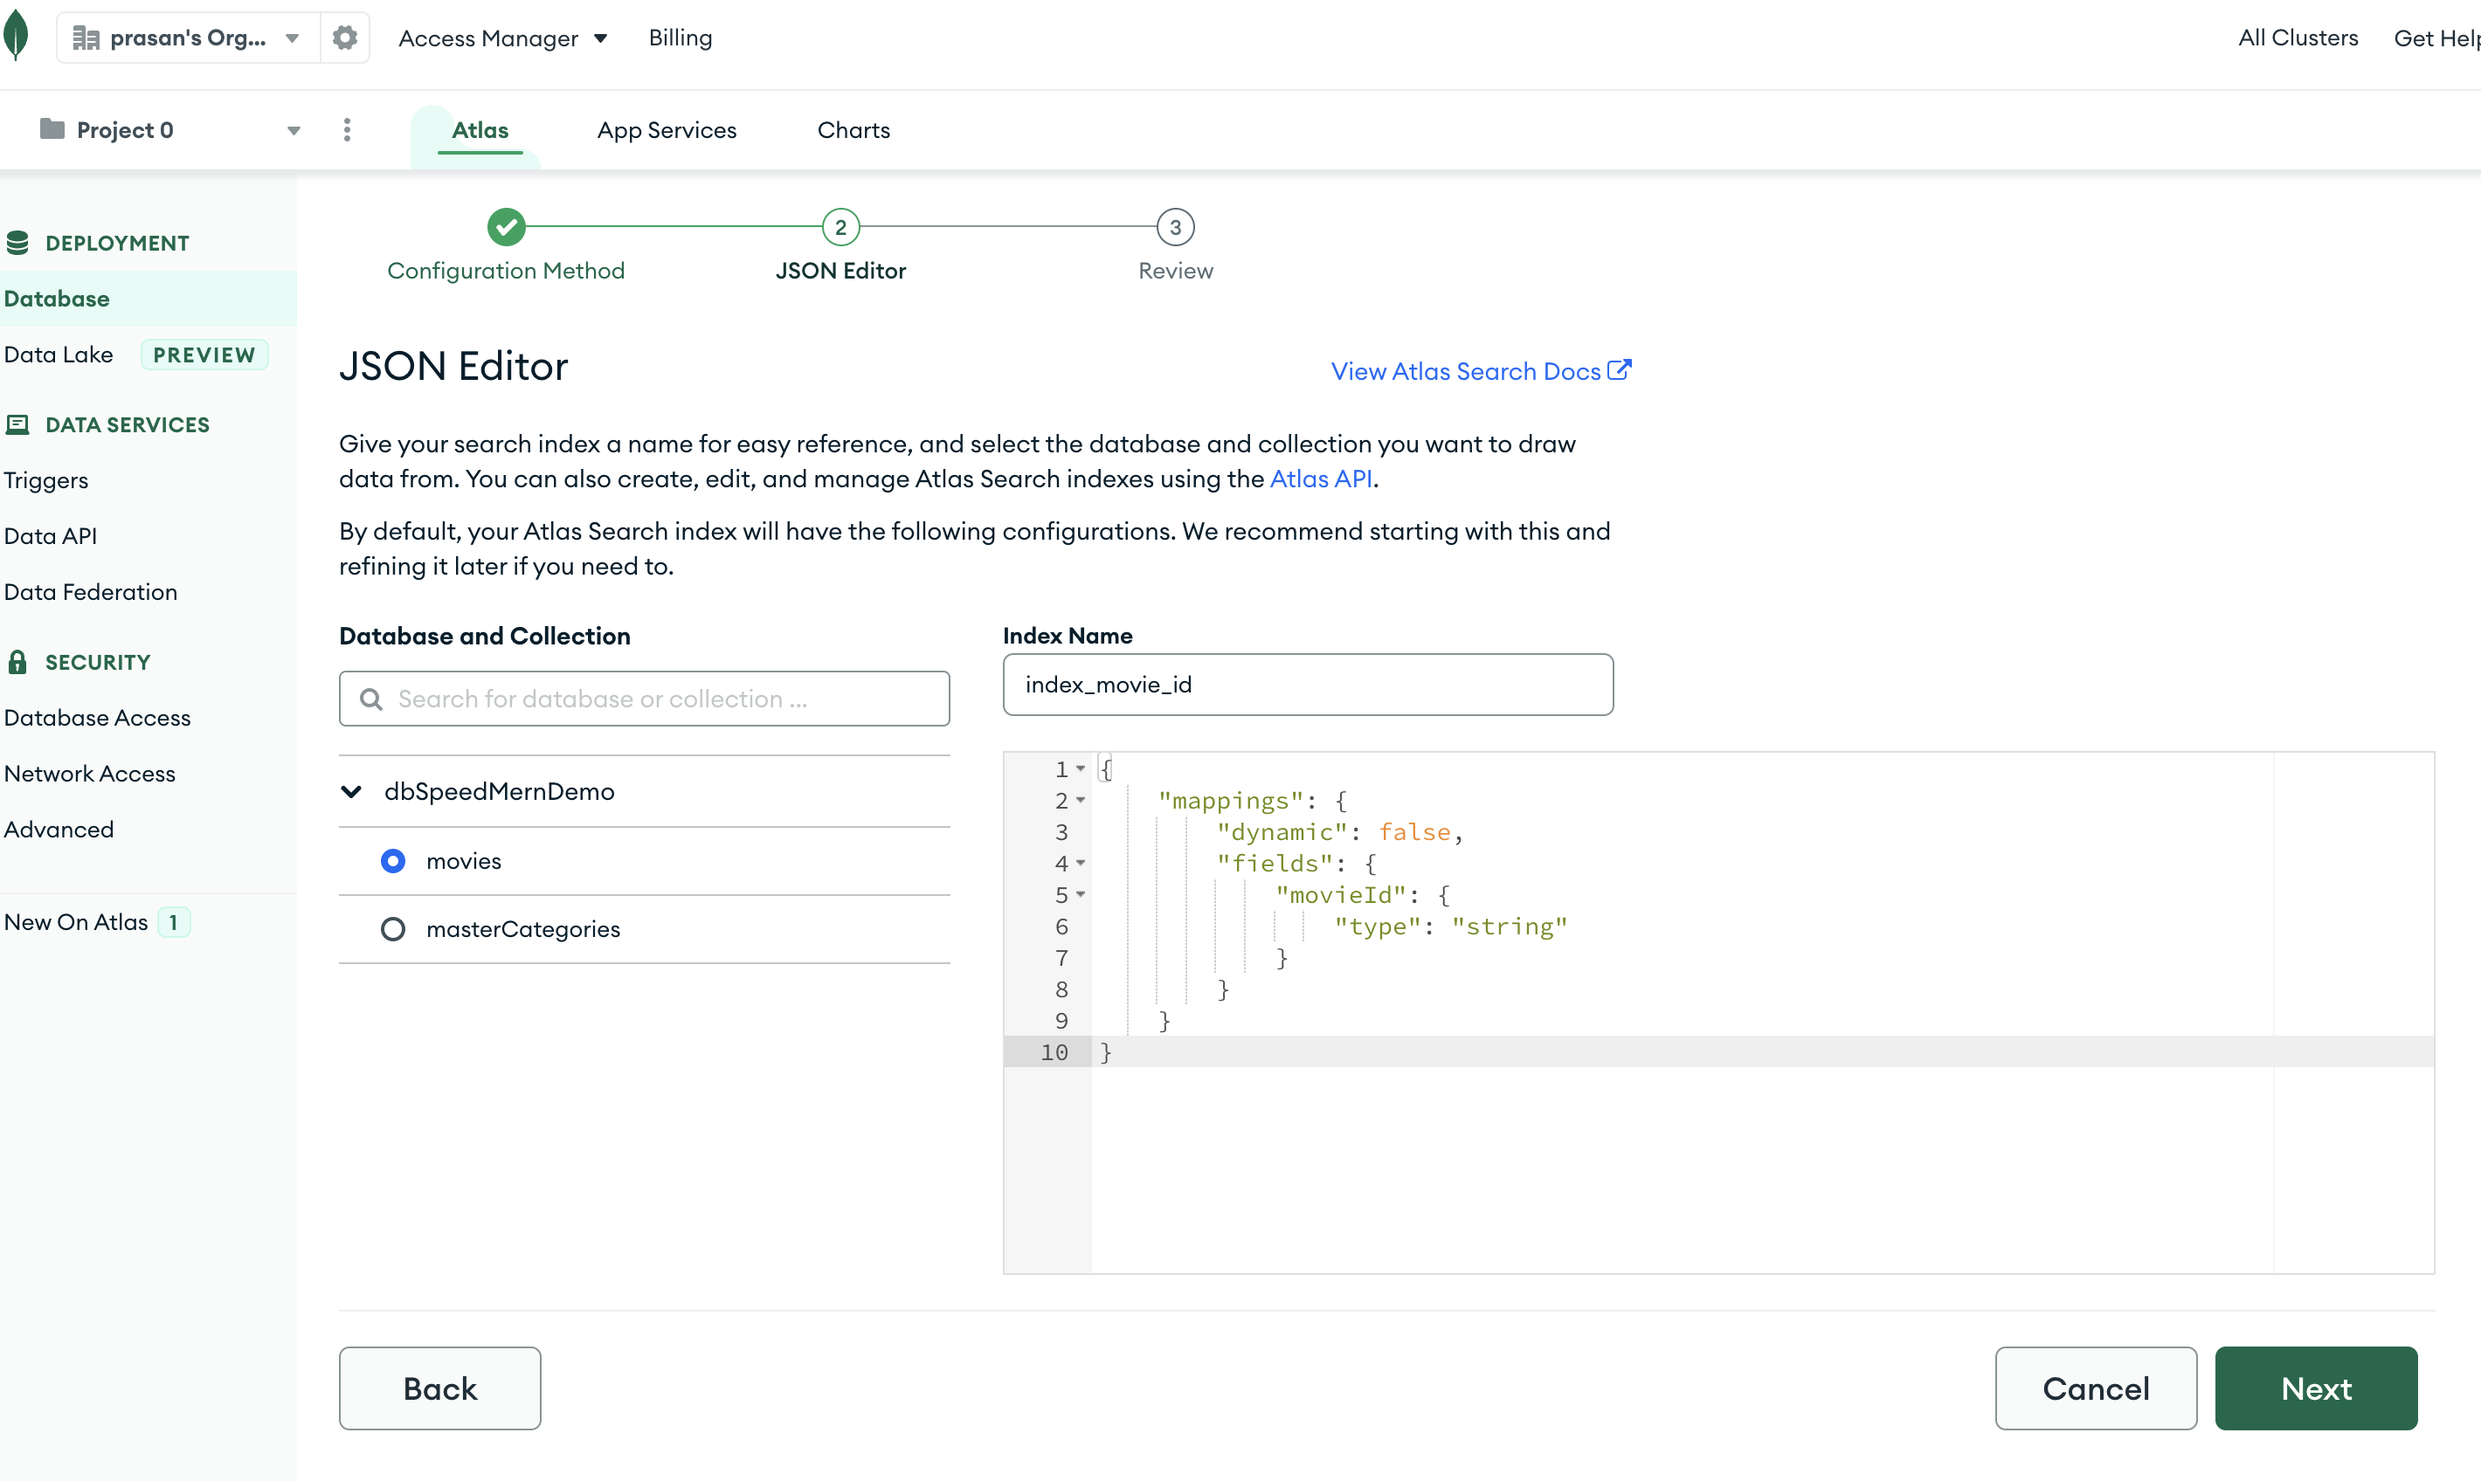
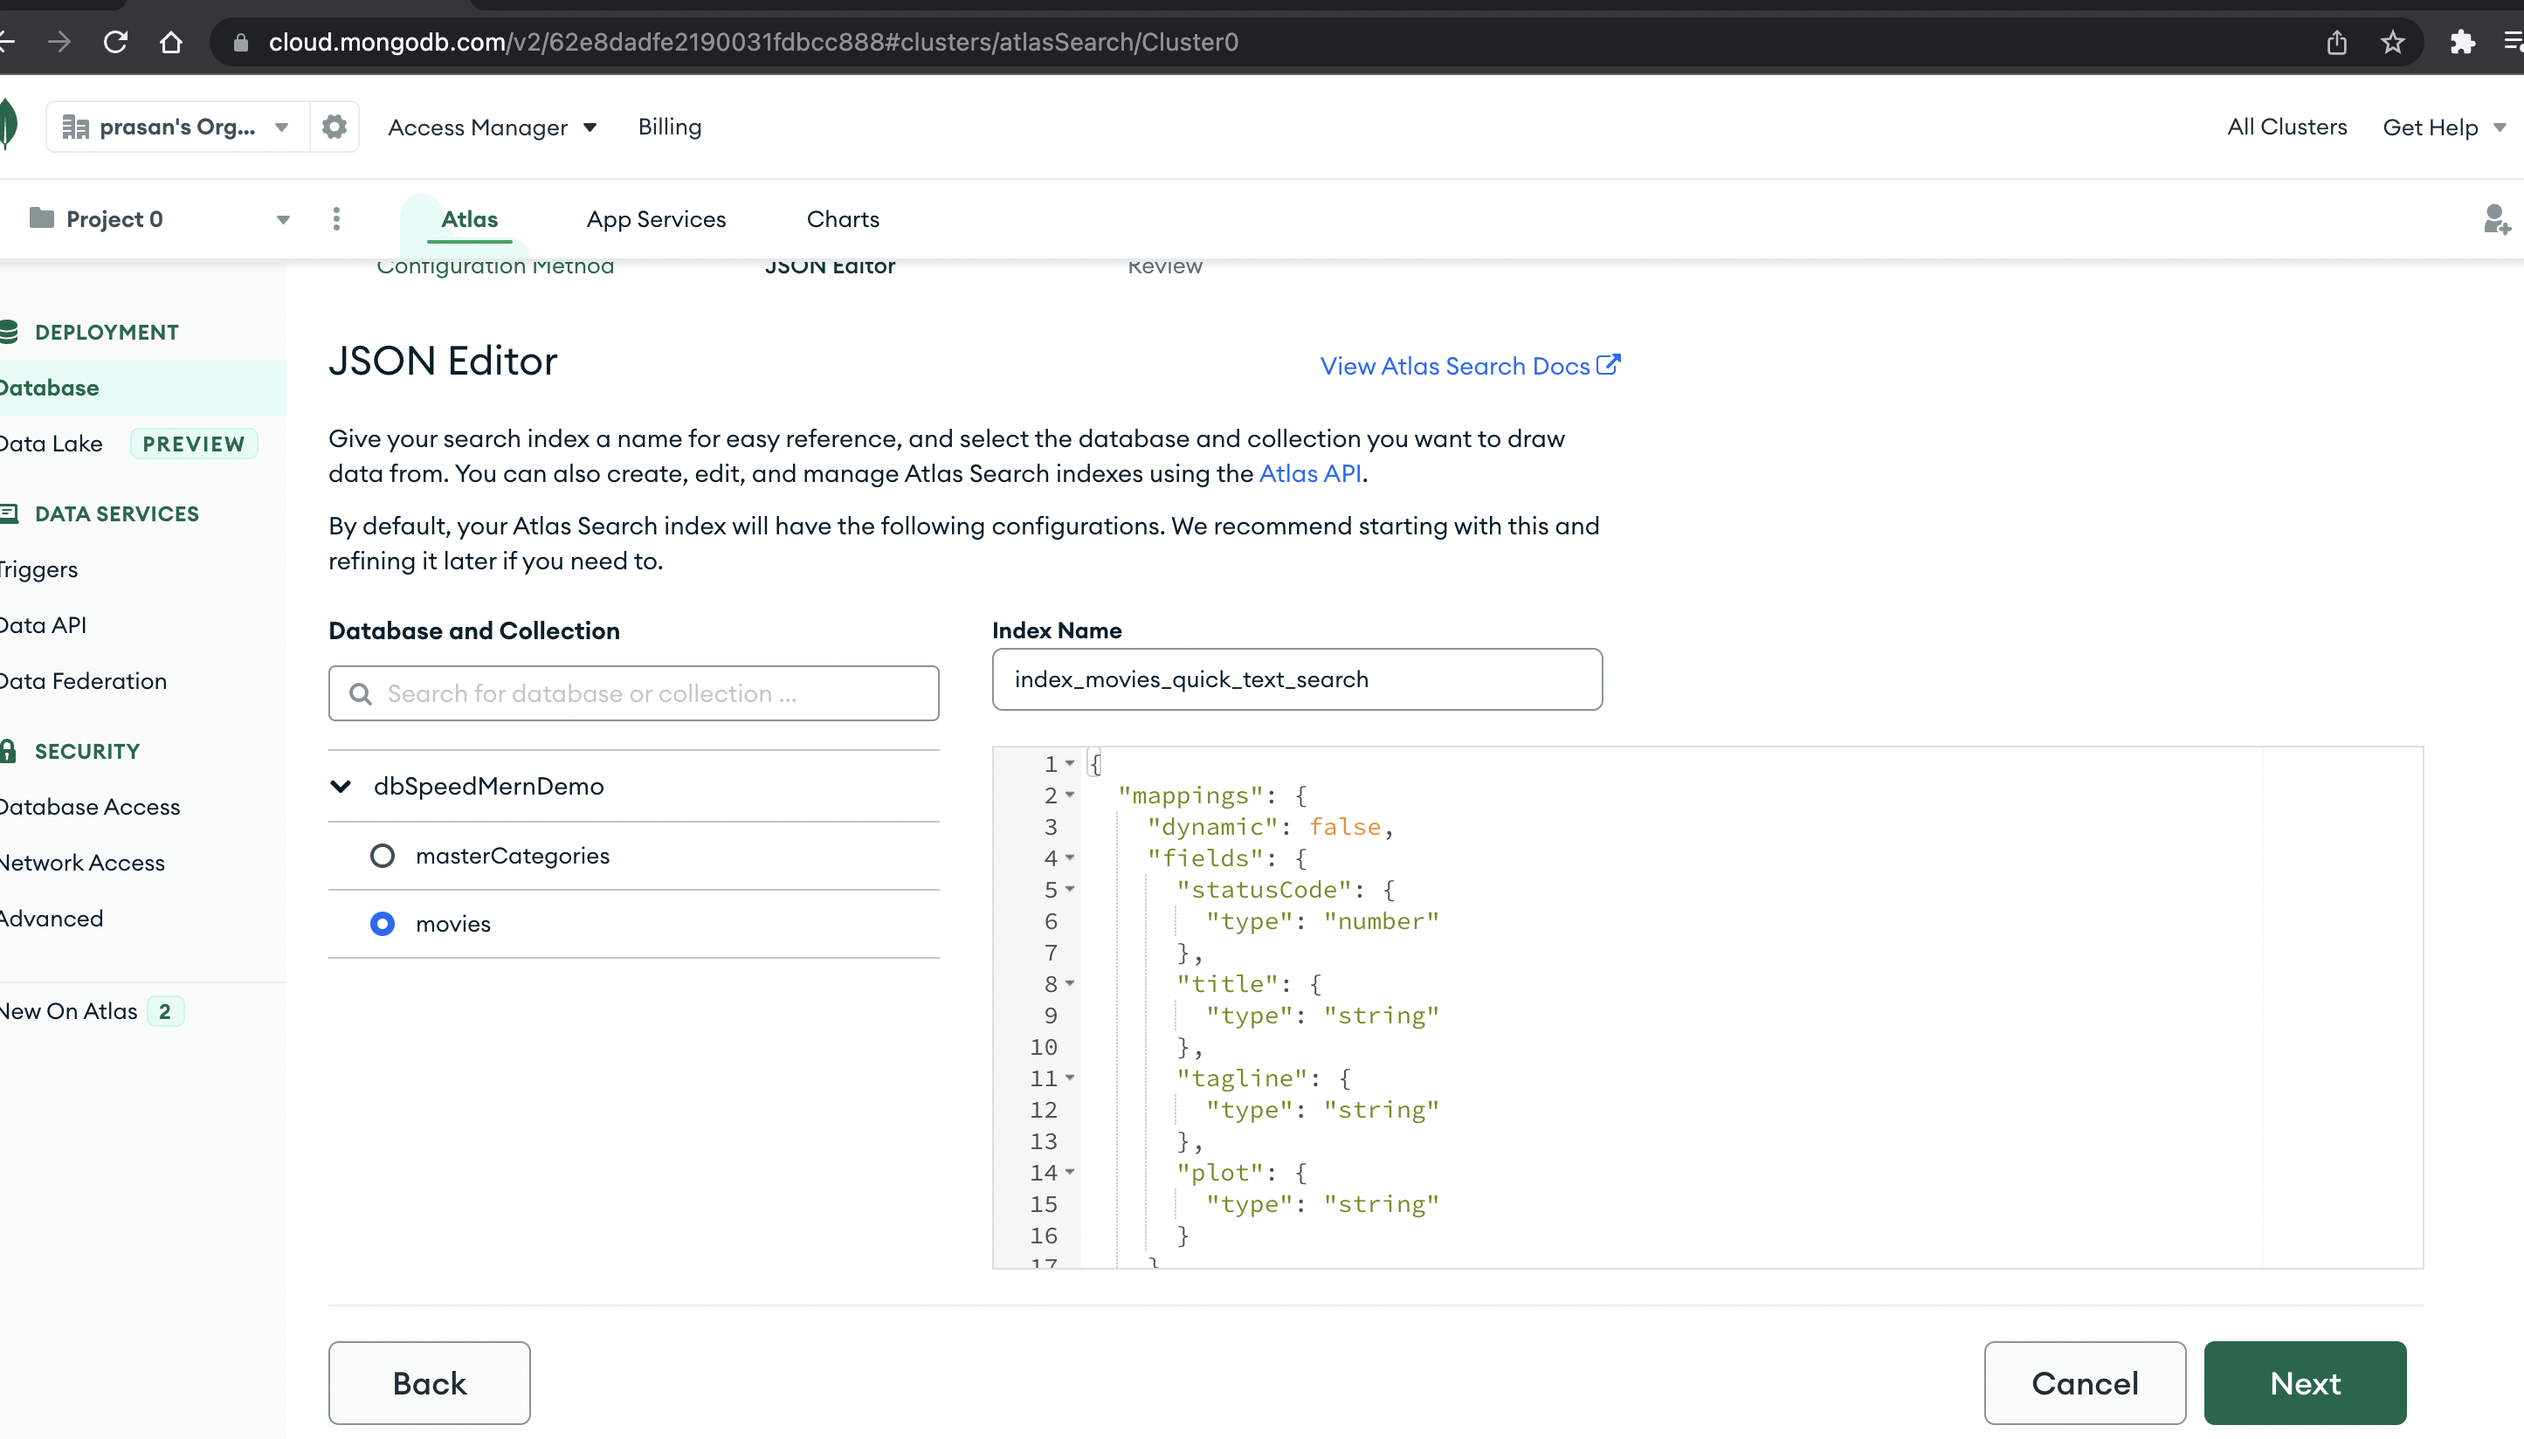
getMoviesByBasicFilters api added

diff --git a/src/controllers/movie-cntlr.ts b/src/controllers/movie-cntlr.ts
@@ -41,6 +41,13 @@ class MovieController {
         if (_movie) {
             _movie = await MovieController.validateInsertMovieSchema(_movie);
 
+            if (_movie.released && _movie.released instanceof Date) {
+                _movie.year = {
+                    low: _movie.released.getFullYear(),
+                    high: 0
+                };
+            }
+
             insertedId = await GenericDatabaseCls.insertDocument({
                 collectionName: collectionName,
                 keyName: keyName,
@@ -108,46 +115,45 @@ class MovieController {
         return updatedId;
     }
 
-    static async getMoviesByText(_doc: Document): Promise<Document[]> {
+    static async getMoviesByText(_filter: Document): Promise<Document[]> {
         let movieList: Document[] = [];
         const collectionName = COLLECTIONS.MOVIES.collectionName;
 
-        if (_doc && _doc.searchText) {
+        if (_filter && _filter.searchText) {
 
             const pipelineArr = [
                 {
-                    "$search": { //$search must be the first stage in a pipeline
-                        "index": COLLECTIONS.MOVIES.Indexes.INDEX_MOVIES_QUICK_TEXT_SEARCH,
-                        "text": {
-                            "query": _doc.searchText,
-                            "path": ["plot", "tagline", "title"], //The multi path option is for type string only.
-                            // "path": {
-                            //     "wildcard": "*"
-                            // }
-                        }
-                    }
+                    $search: {
+                        index: COLLECTIONS.MOVIES.Indexes.INDEX_MOVIES_QUICK_TEXT_SEARCH,
+                        compound: {
+                            must: [
+                                {
+                                    range: {
+                                        gt: 0,
+                                        path: "statusCode",
+                                    },
+                                },
+                                {
+                                    text: {
+                                        query: _filter.searchText,
+                                        path: ["title", "tagline", "plot"],
+                                    },
+                                }
+                            ],
+                        },
+                    },
                 },
                 {
-                    "$match": {
-                        "statusCode": { $gt: 0 }
-                    }
-                },
-                {
-                    "$sort": {
-                        "imdbVotes.low": -1
-                    }
-                },
-                {
-                    "$project": {
-                        "movieId": 1,
-                        "title": 1,
-                        "tagline": 1,
-                        "plot": 1,
-                        "url": 1,
-                        "released": 1,
-                        "duration": 1,
-                        "languages": 1,
-                        "countries": 1
+                    $project: {
+                        movieId: 1,
+                        title: 1,
+                        tagline: 1,
+                        plot: 1,
+                        url: 1,
+                        released: 1,
+                        duration: 1,
+                        languages: 1,
+                        countries: 1
                     }
                 }
             ];
@@ -160,6 +166,114 @@ class MovieController {
         }
         else {
             throw "searchText is mandatory!";
+        }
+
+        return movieList;
+    }
+
+    static async validateBasicFiltersSchema(_filter: Document): Promise<Document> {
+        const schema = yup.object().shape({
+            imdbRating: yup.number(),
+            countries: yup.array().of(yup.string()).min(1),
+            releaseYear: yup.number(),
+            title: yup.string()
+        });
+
+        //@ts-ignore 
+        _filter = await YupCls.validateSchema(_filter, schema);
+
+        return _filter;
+    }
+    static buildBasicFiltersQuery(_filter: Document): Document[] {
+        const compoundQueries: Document[] = [{
+            range: {
+                gt: 0,
+                path: "statusCode",
+            },
+        }];
+
+        if (_filter) {
+
+            if (_filter.imdbRating >= 0) {
+                compoundQueries.push({
+                    range: {
+                        gte: _filter.imdbRating,
+                        path: "imdbRating",
+                    },
+                });
+            }
+
+
+            if (_filter.countries && _filter.countries.length) {
+                compoundQueries.push({
+                    text: {
+                        query: _filter.countries,
+                        path: "countries",
+                    },
+                });
+            }
+
+            if (_filter.releaseYear >= 0) {
+                compoundQueries.push({
+                    range: {
+                        gte: _filter.releaseYear,
+                        lte: _filter.releaseYear, //no eq in range
+                        path: "year.low",
+                    },
+                });
+            }
+
+            if (_filter.title) {
+                compoundQueries.push({
+                    text: {
+                        query: _filter.title,
+                        path: "title",
+                    },
+                });
+            }
+        }
+
+        return compoundQueries;
+    }
+    static async getMoviesByBasicFilters(_filter: Document): Promise<Document[]> {
+        let movieList: Document[] = [];
+        const collectionName = COLLECTIONS.MOVIES.collectionName;
+
+        if (_filter && Object.keys(_filter).length) {
+            _filter = await MovieController.validateBasicFiltersSchema(_filter);
+            const compoundQueries = MovieController.buildBasicFiltersQuery(_filter);
+            const pipelineArr = [
+                {
+                    $search: {
+                        index: COLLECTIONS.MOVIES.Indexes.INDEX_MOVIES_BASIC_SEARCH,
+                        compound: {
+                            must: compoundQueries,
+                        },
+                    },
+                },
+                {
+                    $project: {
+                        movieId: 1,
+                        title: 1,
+                        tagline: 1,
+                        plot: 1,
+                        url: 1,
+                        released: 1,
+                        duration: 1,
+                        languages: 1,
+                        countries: 1
+                    }
+                }
+            ];
+            movieList = await GenericDatabaseCls.aggregate({
+                collectionName: collectionName,
+                pipelineArr: pipelineArr,
+                isInitializePipelineArr: false
+            });
+
+        }
+        else {
+            throw "Filter by one key at least is mandatory!";
         }
 
         return movieList;

diff --git a/src/controllers/routes.ts b/src/controllers/routes.ts
@@ -84,14 +84,24 @@ router.post("/getMoviesByText", async (req: Request, res: Response) => {
   res.send(result);
 });
 //--------------------------------
-router.post("/getMoviesByBasicFilters", (req: Request, res: Response) => {
+router.post("/getMoviesByBasicFilters", async (req: Request, res: Response) => {
   const body = req.body;
-  const params = req.query;
+  const result: IApiResponseBody = {
+    data: null,
+    error: null
+  };
 
-  res.send({
-    body: body,
-    params: params
-  });
+  try {
+    result.data = await MovieController.getMoviesByBasicFilters(body);
+  }
+  catch (err) {
+    const pureErr = getPureError(err);
+    result.error = pureErr;
+    res.status(HTTP_STATUS_CODES.INTERNAL_SERVER_ERROR);
+    LoggerCls.error("/getMoviesByBasicFilters API failed !", pureErr);
+  }
+
+  res.send(result);
 });
 //--------------------------------
 

diff --git a/src/config/server-config.ts b/src/config/server-config.ts
@@ -3,7 +3,6 @@ const COLLECTIONS = {
         collectionName: "movies",
         keyName: "movieId",
         Indexes: {
-            INDEX_MOVIE_ID: "index_movie_id",
             INDEX_MOVIES_QUICK_TEXT_SEARCH: "index_movies_quick_text_search",
             INDEX_MOVIES_BASIC_SEARCH: "index_movies_basic_search"
         }

diff --git a/docs/api/04-get-movies-by-basic-filters.md b/docs/api/04-get-movies-by-basic-filters.md
@@ -5,7 +5,10 @@
 ```json
 POST localhost:3000/api/getMoviesByBasicFilters
 {
-
+    "imdbRating":1,
+    "countries":["USA"],
+    "releaseYear":1995,
+    "title":"dead"
 }
 ```
 
@@ -13,7 +16,44 @@ POST localhost:3000/api/getMoviesByBasicFilters
 
 ```json
 {
-  "data": {},
+  "data": [
+    {
+      "_id": "62e94558dba7175f112f54b0",
+      "languages": ["English"],
+      "movieId": "42",
+      "countries": ["USA"],
+      "title": "Dead Presidents",
+      "url": "https://themoviedb.org/movie/11443",
+      "plot": "A Vietnam vet adjusts to life after the war while trying to support his family, but the chance of a better life may involve crime and bloodshed.",
+      "released": "1995-10-06",
+      "tagline": "A Vietnam vet adjusts to life after the war while trying to support his family, but the chance of a better life may involve crime and bloodshed.",
+      "duration": 119
+    },
+    {
+      "_id": "62e94558dba7175f112f54aa",
+      "languages": ["English"],
+      "movieId": "36",
+      "countries": ["UK", "USA"],
+      "title": "Dead Man Walking",
+      "url": "https://themoviedb.org/movie/687",
+      "plot": "A nun, while comforting a convicted killer on death row, empathizes with both the killer and his victim's families.",
+      "released": "1996-02-02",
+      "tagline": "A nun, while comforting a convicted killer on death row, empathizes with both the killer and his victim's families.",
+      "duration": 122
+    },
+    {
+      "_id": "62e94558dba7175f112f5493",
+      "languages": ["English", "German"],
+      "movieId": "12",
+      "countries": ["USA", " France"],
+      "title": "Dracula: Dead and Loving It",
+      "url": "https://themoviedb.org/movie/12110",
+      "plot": "Mel Brooks' parody of the classic vampire story and its famous film adaptations.",
+      "released": "1995-12-22",
+      "tagline": "Mel Brooks' parody of the classic vampire story and its famous film adaptations.",
+      "duration": 88
+    }
+  ],
   "error": null
 }
 ```

diff --git a/docs/indexing/mongodb-atlas.md b/docs/indexing/mongodb-atlas.md
@@ -2,22 +2,9 @@
 
 Create following indexes in MongoDB Atlas
 
-### Index 1 (For movie update)
+### Index 1 (For text search)
 
-```json
-{
-  "mappings": {
-    "dynamic": false,
-    "fields": {
-      "movieId": {
-        "type": "string"
-      }
-    }
-  }
-}
-```
-
-### Index 2 (For text search)
+- index name: **index_movies_quick_text_search**
 
 ```json
 {
@@ -35,16 +22,15 @@ Create following indexes in MongoDB Atlas
       },
       "plot": {
         "type": "string"
-      },
-      "imdbVotes.low": {
-        "type": "number"
       }
     }
   }
 }
 ```
 
-### Index 3 (For basic form search)
+### Index 2 (basic form search)
+
+- index name: **index_movies_basic_search**
 
 ```json
 {
@@ -57,20 +43,20 @@ Create following indexes in MongoDB Atlas
       "imdbRating": {
         "type": "number"
       },
-      "languages": {
-        "type": "string"
-      },
       "countries": {
         "type": "string"
       },
-      "year.low": {
-        "type": "number"
+      "year": {
+        "type": "document",
+        "dynamic": false,
+        "fields": {
+          "low": {
+            "type": "number"
+          }
+        }
       },
       "title": {
         "type": "string"
-      },
-      "imdbVotes.low": {
-        "type": "number"
       }
     }
   }
